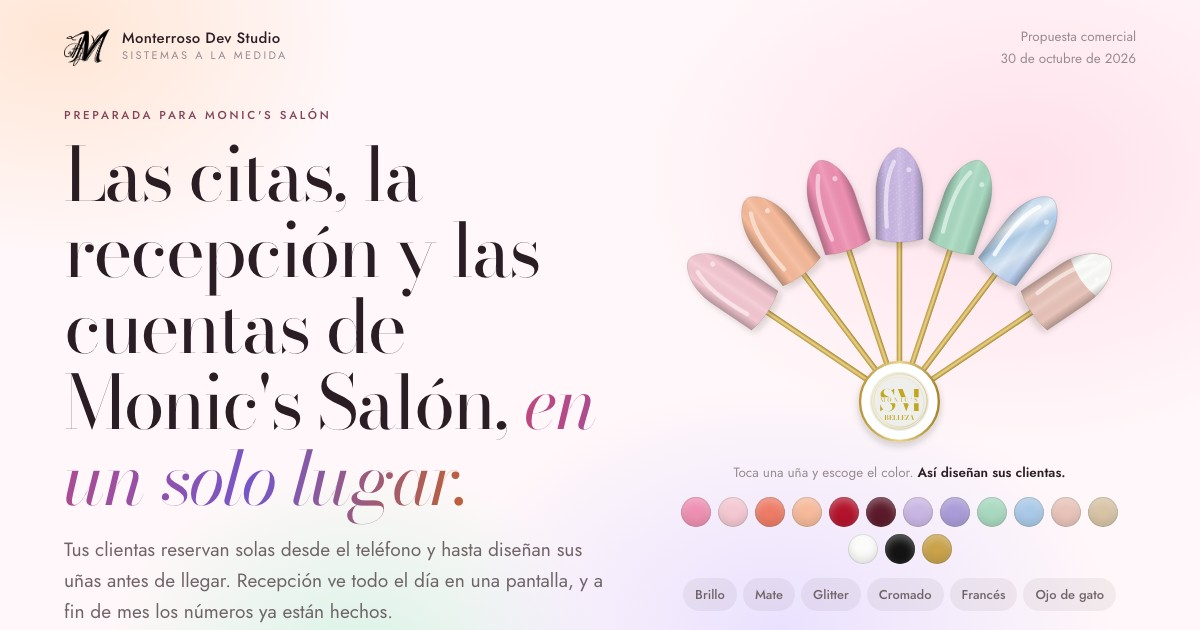
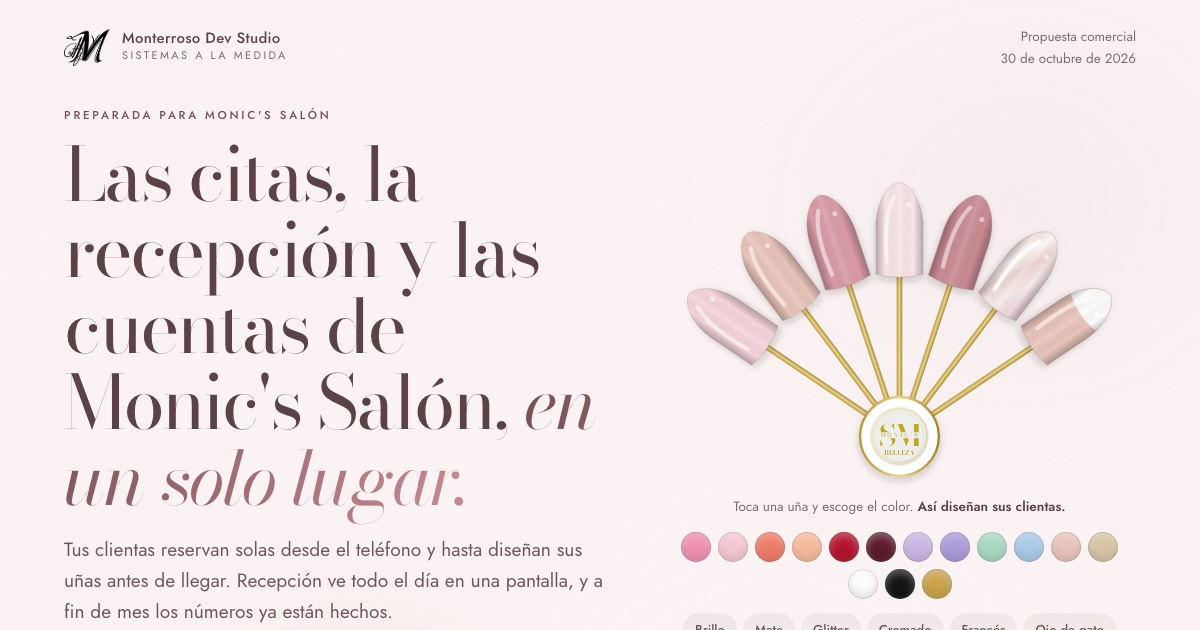
Propuesta en un solo tono rosa empolvado y letra más suave

diff --git a/Propuesta-Monics.html b/Propuesta-Monics.html
@@ -4,7 +4,7 @@
 <meta charset="utf-8">
 <meta name="viewport" content="width=device-width, initial-scale=1, viewport-fit=cover">
 <meta name="description" content="Reservas en línea, estudio de diseño de uñas, recepción en vivo y tarjeta de puntos en Apple y Google Wallet.">
-<meta name="theme-color" content="#F5F4F0">
+<meta name="theme-color" content="#FBF3F3">
 <meta name="robots" content="noindex">
 <meta property="og:type" content="website">
 <meta property="og:title" content="Propuesta para Monic's Salón · Monterroso Dev Studio">
@@ -24,7 +24,7 @@
 <title>Propuesta · Sistema para salón</title>
 <style>
 :root { --ease: cubic-bezier(0.23, 1, 0.32, 1); --r: 24px; --gutter: 20px; --sombra: 0 1px 2px rgba(40,26,20,.04), 0 12px 36px rgba(40,26,20,.07);
-  --t1: #FFE3EC; --t2: #ECE4FF; --t3: #DDF5E9; --t4: #FFE9DA; --i1: #C2477A; --i2: #7656C9; --i3: #2F8A62; --i4: #C2602F; }
+  --t1: #F6ECEE; --t2: #F9F2F3; --t3: #F4E7E9; --t4: #F8EFF0; --i1: #755055; --i2: #755055; --i3: #755055; --i4: #755055; }
 .sec.t1, .bloque.t1, .hito:nth-child(1), .dolor:nth-child(1), .paq.extra:nth-child(2) { --ink: var(--i1); }
 .sec.t2, .bloque.t2, .hito:nth-child(2), .dolor:nth-child(2) { --ink: var(--i2); }
 .sec.t3, .bloque.t3, .hito:nth-child(3), .dolor:nth-child(3), .paq.extra:nth-child(1) { --ink: var(--i3); }
@@ -40,7 +40,7 @@ h1, h2, h3, p { margin: 0; }
 b, strong { font-weight: 600; }
 .serif, h1, h2, h3 { font-family: var(--f-titulo); font-weight: 400; letter-spacing: -.015em; line-height: 1.06; }
 h1 em, h2 em, h3 em, .serif em { font-style: italic; color: var(--ink, var(--acento-texto)); }
-h1 em { background: linear-gradient(100deg, var(--i1), var(--i2) 55%, var(--i4)); -webkit-background-clip: text; background-clip: text; color: transparent; padding-right: .08em; }
+h1 em { background: linear-gradient(100deg, var(--i1), var(--acento)); -webkit-background-clip: text; background-clip: text; color: transparent; padding-right: .08em; }
 .eyebrow { font: 500 11.5px/1.2 var(--f-texto); letter-spacing: .24em; text-transform: uppercase; color: var(--acento-texto); margin-bottom: 14px; }
 .tx2 { color: var(--tinta2); } .tenue { color: var(--tenue); } .small { font-size: 13.5px; }
 .cont { max-width: 1160px; margin: 0 auto; padding: 0 var(--gutter); }
@@ -57,7 +57,7 @@ h3 { font-size: 24px; }
 .chip { display: inline-flex; align-items: center; gap: 6px; padding: 5px 13px; border-radius: 999px; background: var(--acento-suave); color: var(--acento-texto); font-size: 12.5px; font-weight: 600; letter-spacing: .02em; }
 .btn { display: inline-flex; align-items: center; justify-content: center; gap: 10px; min-height: 52px; padding: 0 26px; border-radius: 999px; font: 600 15.5px var(--f-texto); letter-spacing: .01em; text-decoration: none; border: 0; cursor: pointer; transition: transform .16s var(--ease), background-color .3s var(--ease), color .3s var(--ease); }
 .btn:active { transform: scale(.97); }
-.btn-a { background: linear-gradient(135deg, var(--acento), color-mix(in srgb, var(--acento) 62%, var(--i2))); color: var(--acento-sobre); }
+.btn-a { background: linear-gradient(135deg, var(--acento), color-mix(in srgb, var(--acento) 72%, #fff)); color: var(--acento-sobre); }
 .btn-p { background: var(--oscuro); color: var(--fondo); }
 .btn-l { background: transparent; color: inherit; box-shadow: inset 0 0 0 1px color-mix(in srgb, currentColor 30%, transparent); }
 @media (hover: hover) and (pointer: fine) { .btn-a:hover { background: color-mix(in srgb, var(--acento) 86%, #000); } .btn-p:hover { background: color-mix(in srgb, var(--oscuro) 85%, var(--acento)); } }
@@ -231,8 +231,8 @@ h3 { font-size: 24px; }
 .cable i { position: absolute; top: -4px; left: 0; width: 10px; height: 10px; border-radius: 50%; background: var(--acento); box-shadow: 0 0 0 6px color-mix(in srgb, var(--acento) 25%, transparent); animation: cable 2.6s var(--ease) infinite; }
 @keyframes cable { 0% { left: 0; opacity: 0; } 15% { opacity: 1; } 85% { opacity: 1; } 100% { left: 100%; opacity: 0; } }
 .cable.pulso i { animation-duration: .9s; }
-.en-vivo { position: absolute; left: 50%; top: -16px; transform: translateX(-50%); z-index: 4; display: inline-flex; gap: 8px; align-items: center; padding: 6px 14px; border-radius: 999px; background: var(--tarjeta); box-shadow: var(--sombra); font-size: 12px; font-weight: 600; color: #3F7D5C; }
-.en-vivo::before { content: ""; width: 8px; height: 8px; border-radius: 50%; background: #3F7D5C; animation: late 1.6s var(--ease) infinite; }
+.en-vivo { position: absolute; left: 50%; top: -16px; transform: translateX(-50%); z-index: 4; display: inline-flex; gap: 8px; align-items: center; padding: 6px 14px; border-radius: 999px; background: var(--tarjeta); box-shadow: var(--sombra); font-size: 12px; font-weight: 600; color: var(--acento-texto); }
+.en-vivo::before { content: ""; width: 8px; height: 8px; border-radius: 50%; background: var(--acento); animation: late 1.6s var(--ease) infinite; }
 @keyframes late { 50% { opacity: .3; } }
 .noti { position: absolute; left: 50%; top: 12px; z-index: 5; width: min(92%, 380px); transform: translate(-50%, -20px); opacity: 0; transition: opacity .4s var(--ease), transform .5s var(--ease); display: flex; gap: 10px; align-items: center; padding: 12px 14px; border-radius: 18px; background: rgba(255,255,255,.94); backdrop-filter: blur(16px); -webkit-backdrop-filter: blur(16px); box-shadow: 0 14px 34px rgba(0,0,0,.18); pointer-events: none; color: #1d1d1f; }
 .noti.on { opacity: 1; transform: translate(-50%, 0); }
@@ -249,7 +249,7 @@ th, td { padding: 16px 18px; text-align: left; border-bottom: 1px solid var(--li
 thead th { font-size: 11.5px; letter-spacing: .14em; text-transform: uppercase; color: var(--tenue); font-weight: 500; }
 th.nos, td.nos { background: var(--t1); font-weight: 600; color: var(--tinta); }
 tbody th { font-weight: 500; color: var(--tinta2); }
-.si { color: #3F7D5C; font-weight: 600; } .no { color: #B23A3A; }
+.si { color: var(--acento-texto); font-weight: 600; } .no { color: var(--tenue); }
 .nota { font-size: 12.5px; color: var(--tenue); margin-top: 12px; }
 
 /* calculadora */
@@ -296,7 +296,7 @@ input[type=range] { width: 100%; accent-color: var(--acento-texto); height: 28px
 .sw input { position: absolute; inset: 0; opacity: 0; margin: 0; cursor: pointer; width: 100%; height: 100%; }
 .sw span { position: absolute; inset: 0; border-radius: 99px; background: color-mix(in srgb, var(--tinta) 16%, transparent); transition: background-color .25s var(--ease); pointer-events: none; }
 .sw span::after { content: ""; position: absolute; top: 2px; left: 2px; width: 26px; height: 26px; border-radius: 50%; background: #fff; box-shadow: 0 2px 6px rgba(0,0,0,.2); transition: transform .25s var(--ease); }
-.sw input:checked + span { background: #3F7D5C; } .sw input:checked + span::after { transform: translateX(20px); }
+.sw input:checked + span { background: var(--acento-texto); } .sw input:checked + span::after { transform: translateX(20px); }
 .sw input:disabled + span { opacity: .6; } .sw input:focus-visible + span { outline: 2px solid var(--acento); outline-offset: 2px; }
 .segp { display: grid; grid-template-columns: repeat(3, 1fr); gap: 3px; padding: 4px; border-radius: 16px; background: rgba(255,255,255,.55); }
 .segp button { border: 0; background: transparent; padding: 11px 6px; border-radius: 12px; font: 600 15px var(--f-texto); color: var(--tinta2); cursor: pointer; transition: background-color .2s var(--ease), color .2s var(--ease), transform .16s var(--ease); }
@@ -406,17 +406,20 @@ function comboHTML() {
 
 /* ---------- paletas pastel ---------- */
 const mezcla = (a, b, k) => { const h = x => [1, 3, 5].map(i => parseInt(x.slice(i, i + 2), 16)); const A = h(a), B = h(b); return "#" + A.map((v, i) => Math.round(v + (B[i] - v) * k).toString(16).padStart(2, "0")).join(""); };
-function paleta(nombre, fondo, acento, nude, tinta, t, i) {
-  return { nombre, i: i || ["#C2477A", "#7656C9", "#2F8A62", "#C2602F"], c: { fondo, fondo2: mezcla(fondo, "#000000", .045), tarjeta: "#FFFFFF", tinta, tinta2: mezcla(tinta, fondo, .32), tenue: mezcla(tinta, fondo, .5), linea: mezcla(fondo, "#000000", .1), acento, acentoTexto: mezcla(acento, "#000000", .42), acentoSuave: mezcla(acento, "#FFFFFF", .8), acentoSobre: tinta, nude, oscuro: tinta }, t: t.map(x => x) };
+/* un solo tono por paleta: las secciones son el mismo color, más claro o más oscuro */
+const tonos = a => [.84, .9, .8, .88].map(k => mezcla(a, "#FFFFFF", k));
+const tintas = a => { const x = mezcla(a, "#000000", .42); return [x, x, x, x]; };
+function paleta(nombre, fondo, acento, nude, tinta) {
+  return { nombre, i: tintas(acento), c: { fondo, fondo2: mezcla(fondo, acento, .06), tarjeta: "#FFFFFF", tinta, tinta2: mezcla(tinta, fondo, .12), tenue: mezcla(tinta, fondo, .22), linea: mezcla(fondo, tinta, .1), acento, acentoTexto: mezcla(acento, "#000000", .42), acentoSuave: mezcla(acento, "#FFFFFF", .8), acentoSobre: mezcla(tinta, "#000000", .4), nude, oscuro: mezcla(tinta, "#000000", .2) }, t: tonos(acento) };
 }
 const PALETAS = [
-  Object.assign({ id: "pastel" }, paleta("Pastel vivo", "#FFF7F9", "#E2709A", "#FFD9E4", "#2B1D24", ["#FFE0EA", "#EAE1FF", "#D9F3E6", "#FFE6D5"], ["#C2477A", "#7656C9", "#2F8A62", "#C2602F"])),
-  { id: "marca", nombre: P.generico ? "Champán" : "Dorado " + (M.corto || "de la marca"), c: Object.assign({}, M.colores), t: ["#F8EEDF", "#F6E6EA", "#ECE6F5", "#FBF1E3"], i: ["#9A7B12", "#B2557A", "#7656C9", "#B5703A"] },
-  Object.assign({ id: "rosa" }, paleta("Rosa chicle", "#FFF6F8", "#EE7FA8", "#FFD3E1", "#2D1E25", ["#FFDCE7", "#FFE8EF", "#F3E2FF", "#FFEBDD"], ["#C23E73", "#B04A82", "#8A4CC2", "#C2602F"])),
-  Object.assign({ id: "lavanda" }, paleta("Lavanda", "#F9F6FF", "#9F86E8", "#E2D8FF", "#231E33", ["#E8DEFF", "#DCEBFF", "#FFE0EE", "#E1F5EA"], ["#6A4FC4", "#3E6FB8", "#C2477A", "#2F8A62"])),
-  Object.assign({ id: "menta" }, paleta("Menta", "#F4FCF8", "#5FC49A", "#CDEFDF", "#1C2B24", ["#D3F3E4", "#FFF2D6", "#DDEBFF", "#FFE2EC"], ["#24855A", "#B07A12", "#3E6FB8", "#C2477A"])),
-  Object.assign({ id: "durazno" }, paleta("Durazno", "#FFF8F3", "#F39A6E", "#FFD9C4", "#2E211B", ["#FFE1CF", "#FFDDE6", "#E4F3D9", "#EDE3FF"], ["#C25A2B", "#C2477A", "#4E8A2F", "#7656C9"])),
-  Object.assign({ id: "cielo" }, paleta("Cielo", "#F5F9FF", "#6FA6E6", "#D6E6FA", "#1C2533", ["#DCEAFF", "#EBE2FF", "#DDF4EA", "#FFE7DA"], ["#2F6BB8", "#7656C9", "#2F8A62", "#C2602F"]))
+  Object.assign({ id: "pastel" }, paleta("Rosa empolvado", "#FBF3F3", "#C98A93", "#F3E1E3", "#5B4247")),
+  { id: "marca", nombre: P.generico ? "Champán" : "Dorado " + (M.corto || "de la marca"), c: Object.assign({}, M.colores), t: tonos(M.colores.acento), i: tintas(M.colores.acento) },
+  Object.assign({ id: "nude" }, paleta("Nude rosado", "#FAF5F1", "#B98C7B", "#EFE2DA", "#5A463F")),
+  Object.assign({ id: "lavanda" }, paleta("Lavanda suave", "#F7F5FB", "#9C8CC4", "#E9E4F4", "#4E4560")),
+  Object.assign({ id: "durazno" }, paleta("Durazno suave", "#FDF6F1", "#D69A80", "#F6E3D8", "#5E4639")),
+  Object.assign({ id: "menta" }, paleta("Menta suave", "#F4FAF7", "#86B9A2", "#DDEEE6", "#3F5249")),
+  Object.assign({ id: "cielo" }, paleta("Cielo suave", "#F4F8FC", "#8AAFD3", "#DFEAF5", "#3F4A5C"))
 ];
 const CLAVE_TEMA = M.clave + ".tema";
 let TEMA = { id: "pastel" };
@@ -438,8 +441,8 @@ function aplicarTema(guardar) {
 }
 function paletasHTML() {
   const act = temaActual();
-  return PALETAS.map(p => `<button class="paleta ${TEMA.id === p.id ? "on" : ""}" data-pal="${p.id}"><span class="cols"><i style="background:${p.c.acento}"></i><i style="background:${p.t[0]}"></i><i style="background:${p.t[1]}"></i><i style="background:${p.c.fondo}"></i></span><b>${esc(p.nombre)}</b><small>${p.id === "marca" ? "La de su logo" : p.id === "pastel" ? "La que proponemos" : "Pastel"}</small></button>`).join("")
-    + `<button class="paleta ${TEMA.id === "propio" ? "on" : ""}" data-pal="propio"><span class="cols"><i style="background:conic-gradient(#F5A3B5,#B9A6E0,#8FC9AE,#F2C08E,#F5A3B5)"></i></span><b>A tu gusto</b><small>Escoge cada color</small></button>`
+  return PALETAS.map(p => `<button class="paleta ${TEMA.id === p.id ? "on" : ""}" data-pal="${p.id}"><span class="cols"><i style="background:${p.c.acento}"></i><i style="background:${p.t[0]}"></i><i style="background:${p.c.acentoTexto}"></i><i style="background:${p.c.fondo}"></i></span><b>${esc(p.nombre)}</b><small>${p.id === "marca" ? "La de su logo" : p.id === "pastel" ? "La que proponemos" : "Pastel"}</small></button>`).join("")
+    + `<button class="paleta ${TEMA.id === "propio" ? "on" : ""}" data-pal="propio"><span class="cols"><i style="background:conic-gradient(#F3E1E3,#C98A93,#E8C3B9,#F3E1E3)"></i></span><b>A tu gusto</b><small>Escoge cada color</small></button>`
     + `<div class="editor" style="grid-column:1/-1"><div class="editor-f">${[["acento", "Color principal"], ["fondo", "Fondo"], ["nude", "Detalle"]].map(([k, n]) => `<label class="campo-color" style="--c:${act.c[k]}"><i></i>${n}<input type="color" data-color="${k}" value="${act.c[k]}" aria-label="${n}"></label>`).join("")}</div>
       <p class="tenue small">Se aplica en vivo a esta propuesta y a la demo: la página del salón, la reserva, la recepción y la tarjeta de puntos.</p></div>`;
 }
@@ -448,7 +451,7 @@ function paletasHTML() {
 const TONOS = [["Rosa chicle", "#EE8FB1"], ["Rosa ballet", "#F4C7D1"], ["Coral", "#EE7B66"], ["Durazno", "#F6B99A"], ["Rojo clásico", "#B3132C"], ["Vino", "#5C1A2B"], ["Lila", "#C9B6E4"], ["Lavanda", "#A99BD8"], ["Menta", "#A8D8C0"], ["Cielo", "#A9C9E8"], ["Nude rosado", "#E8C3B9"], ["Champán", "#D8C3A5"], ["Blanco", "#FBFBF9"], ["Negro", "#141414"], ["Oro", "#C9A24A"]];
 const ACAB = [["brillo", "Brillo"], ["mate", "Mate"], ["glitter", "Glitter"], ["cromado", "Cromado"], ["frances", "Francés"], ["ojo", "Ojo de gato"]];
 const ANG = [-56, -37, -18.5, 0, 18.5, 37, 56];
-const UN = ["#F4C7D1", "#F6B99A", "#EE8FB1", "#C9B6E4", "#A8D8C0", "#A9C9E8", "#E8C3B9"].map((c, i) => ({ c, a: i === 3 ? "glitter" : i === 6 ? "frances" : i === 5 ? "cromado" : "brillo" }));
+const UN = ["#F4D3D9", "#E8C3B9", "#D99AA5", "#F7E3E6", "#C98A93", "#EBD3CF", "#E8C3B9"].map((c, i) => ({ c, a: i === 3 ? "glitter" : i === 6 ? "frances" : i === 5 ? "cromado" : "brillo" }));
 let SEL = null;
 const angAct = ANG.map(() => 0), angObj = ANG.map(() => 0), alzAct = ANG.map(() => 0);
 const NH = 116, PUNTA = `M-30 0 L-30-58 C-30-95-11-${NH} 0-${NH} C11-${NH} 30-95 30-58 L30 0 Q0 8-30 0Z`;
@@ -760,9 +763,8 @@ $("paletas").addEventListener("input", e => {
   const k = e.target.dataset.color; if (!k) return;
   if (TEMA.id !== "propio") { const base = temaActual(); TEMA = { id: "propio", nombre: "A tu gusto", c: Object.assign({}, base.c), t: base.t.slice(), i: (base.i || []).slice() }; }
   TEMA.c[k] = e.target.value;
-  if (k === "acento") { TEMA.c.acentoTexto = mezcla(e.target.value, "#000000", .42); TEMA.c.acentoSuave = mezcla(e.target.value, "#FFFFFF", .8); TEMA.t[0] = mezcla(e.target.value, "#FFFFFF", .84); }
+  if (k === "acento") { TEMA.c.acentoTexto = mezcla(e.target.value, "#000000", .42); TEMA.c.acentoSuave = mezcla(e.target.value, "#FFFFFF", .8); TEMA.t = tonos(e.target.value); TEMA.i = tintas(e.target.value); }
   if (k === "fondo") { TEMA.c.fondo2 = mezcla(e.target.value, "#000000", .045); TEMA.c.linea = mezcla(e.target.value, "#000000", .1); }
-  if (k === "nude") TEMA.t[1] = mezcla(e.target.value, "#FFFFFF", .5);
   e.target.closest(".campo-color").style.setProperty("--c", e.target.value);
   aplicarTema(true);
   document.querySelectorAll(".paleta").forEach(x => x.classList.toggle("on", x.dataset.pal === "propio"));
